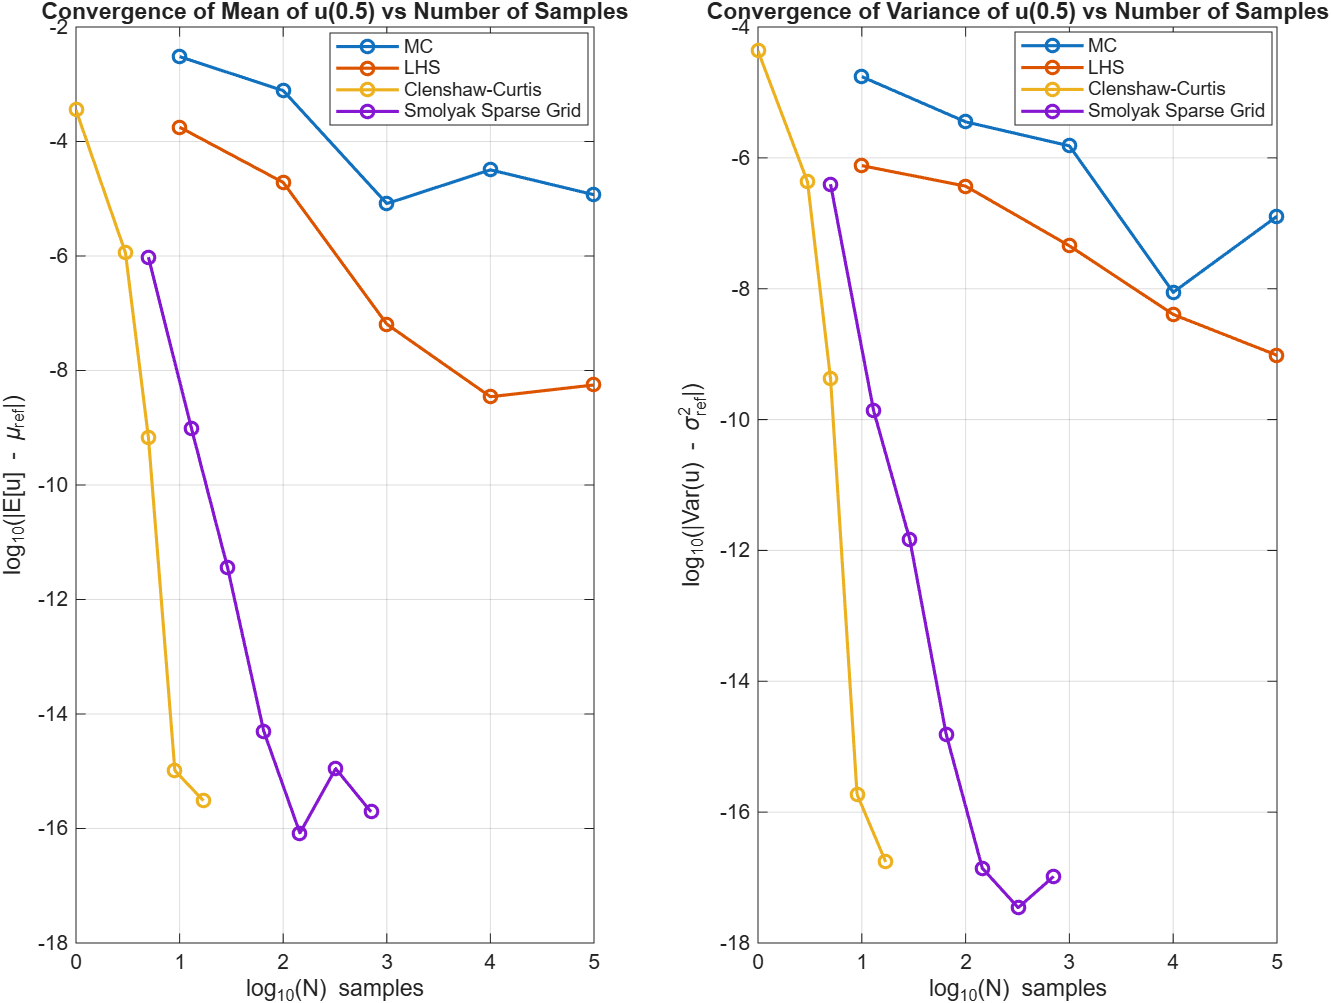
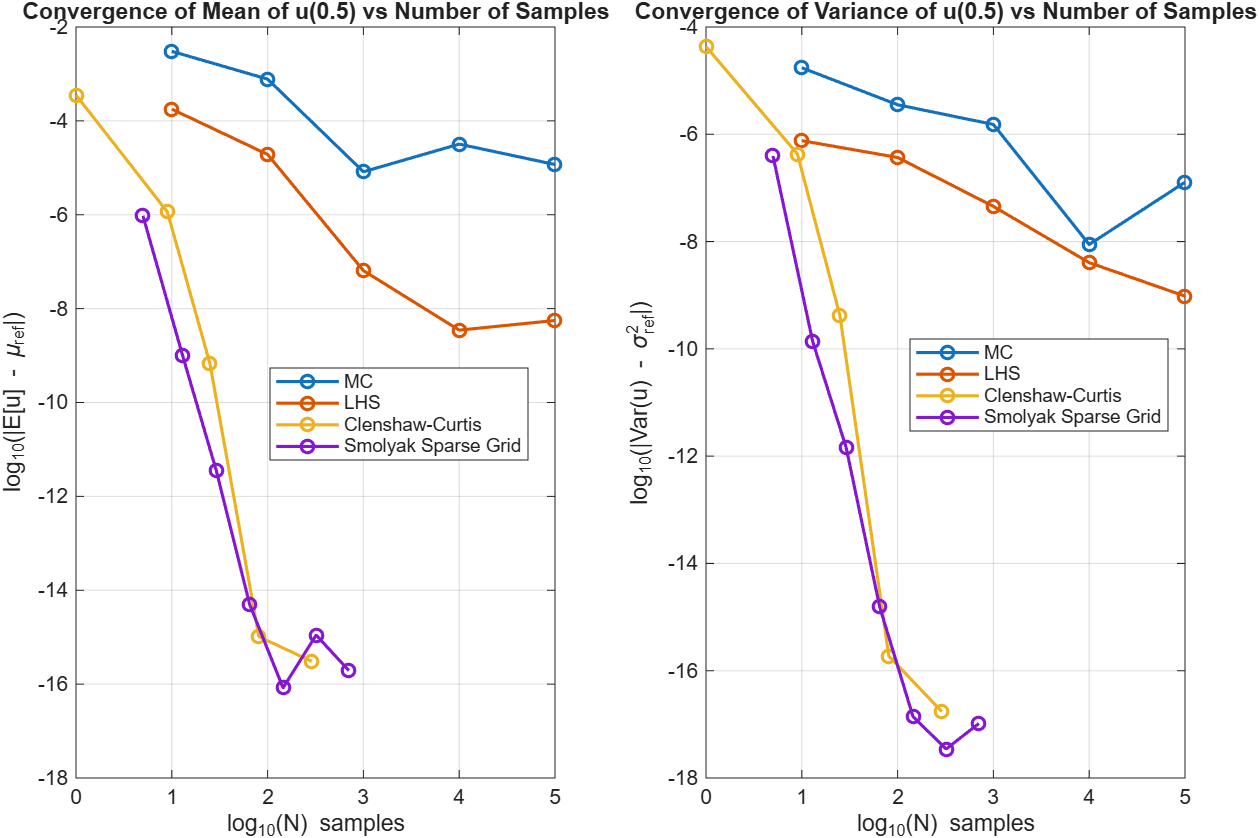
HW4 - bugfix CC. Finished Q1. Updated plots.

diff --git a/HW/HW4/ASEN6412_HW4_Q2.m b/HW/HW4/ASEN6412_HW4_Q2.m
@@ -115,6 +115,7 @@ plotUxVsNpointsDifference('LHS', x, mu_LHS(:,1:end-1), var_LHS(:,1:end-1), ...
 levels_CC = [0, 1, 2, 3, 4, 5];
 lRefIdx_CC = 6; % Corresponds to N = 33 points
 N_levels_CC = [1, 2.^levels_CC(2:end) + 1];
+Nsamples_CC = N_levels_CC.^2;
 NumLevels_CC = numel(levels_CC);
 
 % Pre - Build Flattened Tensor Points
@@ -140,10 +141,10 @@ muRef = mu_CC(:,lRefIdx_CC);
 varRef = var_CC(:,lRefIdx_CC);
 
 % Plotting
-plotUxVsNpoints('CC - Stochastic Collocation', x, mu_CC, var_CC, N_levels_CC, false);
+plotUxVsNpoints('CC - Stochastic Collocation', x, mu_CC, var_CC, Nsamples_CC, false);
 plotUxVsNpointsDifference('CC - Stochastic Collocation', x, ...
                             mu_CC(:,1:end-1), var_CC(:,1:end-1), ...
-                            muRef, varRef, N_levels_CC(1:end-1), false);
+                            muRef, varRef, Nsamples_CC(1:end-1), false);
 
 %% Stochastic Collocation - Smolyak
 levels_SCC = [1, 2, 3, 4, 5, 6, 7];
@@ -177,7 +178,7 @@ varErr = getLogAbsErr(var_MC, var_LHS, var_CC, var_SCC, varRef, xHalfIdx);
 
 % Plotting
 errNames = {'MC','LHS','Clenshaw-Curtis','Smolyak Sparse Grid'};
-errNsamples = {N_MC, N_LHS, N_levels_CC, N_levels_SCC};
+errNsamples = {N_MC, N_LHS, Nsamples_CC, N_levels_SCC};
 % errAccLevels = {[],[],levels_CC,levels_SCC};
 
 figure('Name','Convergence Rate of Algorithms');

diff --git a/HW/HW4/ASEN6412_HW4_Q1.m b/HW/HW4/ASEN6412_HW4_Q1.m
@@ -1,5 +1,5 @@
 %% Plots tensor product grids
-addpath("..\..\ProfCodes\")
+addpath(genpath("..\..\Library\"))
 
 %% Make 1D Grids
 level = [0, 1, 2, 3, 4];
@@ -59,11 +59,38 @@ for prodI = 1:numel(tensorProdY1)
 end
 
 %% Check full product correct
+finalGrid = tensorProdStoragePos;
+tol = 1E-8;
+for iNeg = 1:size(tensorProdStorageNeg,1)
+    foundIdx = tolerancedFind(finalGrid, tensorProdStorageNeg(iNeg,:), tol);
 
-%% TODO - verify if time
-% totalY1 = [];
-% totalY2 = [];
-% for i = 9:-1:1
-%     totalY = tensorProdStorage
-% end
+    if ~isempty(foundIdx)
+        finalGrid(foundIdx, :) = [];
+    else
+        error('Cant subtract something that doesnt exist');
+    end
+end
+
+figure('Name','Verify Solution')
+plot(finalGrid(:,1), finalGrid(:,2), 'r.', 'MarkerSize',10);
+grid on;
+xlabel('y_1');
+ylabel('y_2');
+title('Combined Sparse Grid');
+xlim([-1,1]);
+ylim([-1,1]);
+
+%% helper function
+function foundIdx = tolerancedFind(src, target, tol)
+    % Finds target idx within src vector 
+    % Assumes src = N x 2
+    % Assumes target = 1 x 2
+
+    srcDiff = NaN(size(src));
+    srcDiff(:,1) = abs(src(:,1) - target(1));
+    srcDiff(:,2) = abs(src(:,2) - target(2));
+
+    condition = srcDiff(:,1) < tol & srcDiff(:,2) < tol;
+    foundIdx = find(condition, 1,"first");
+end
 
